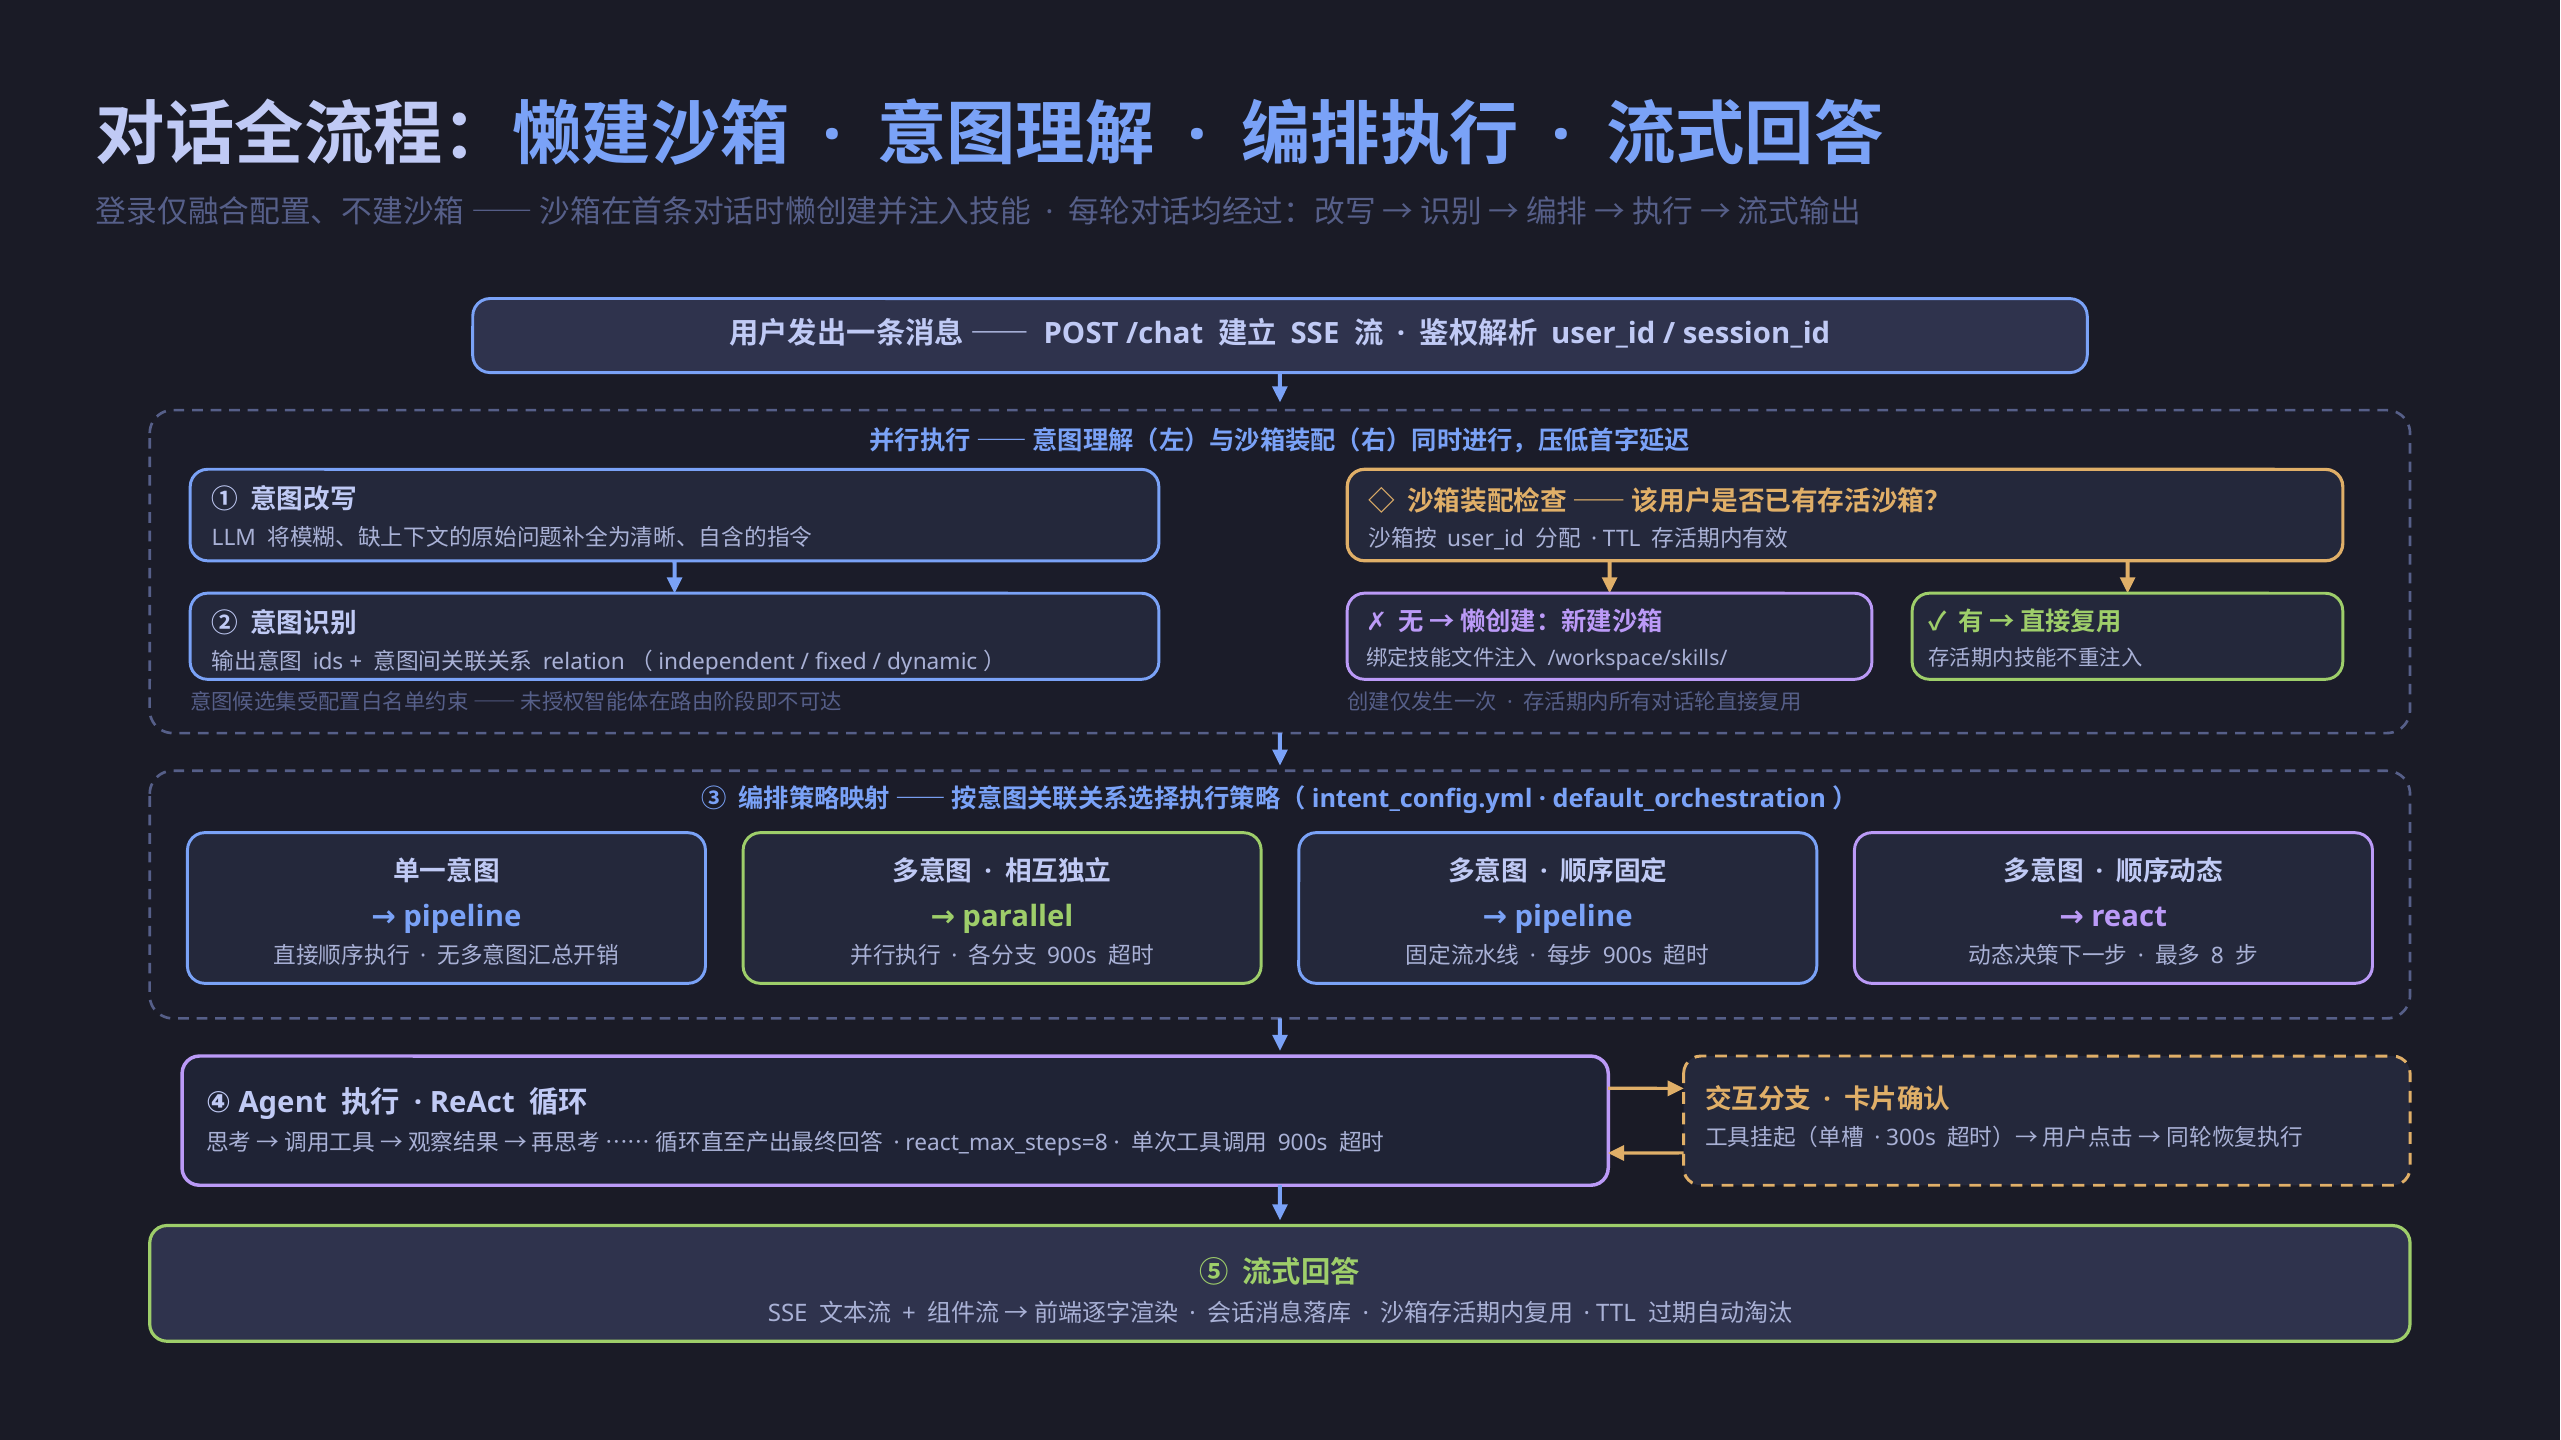
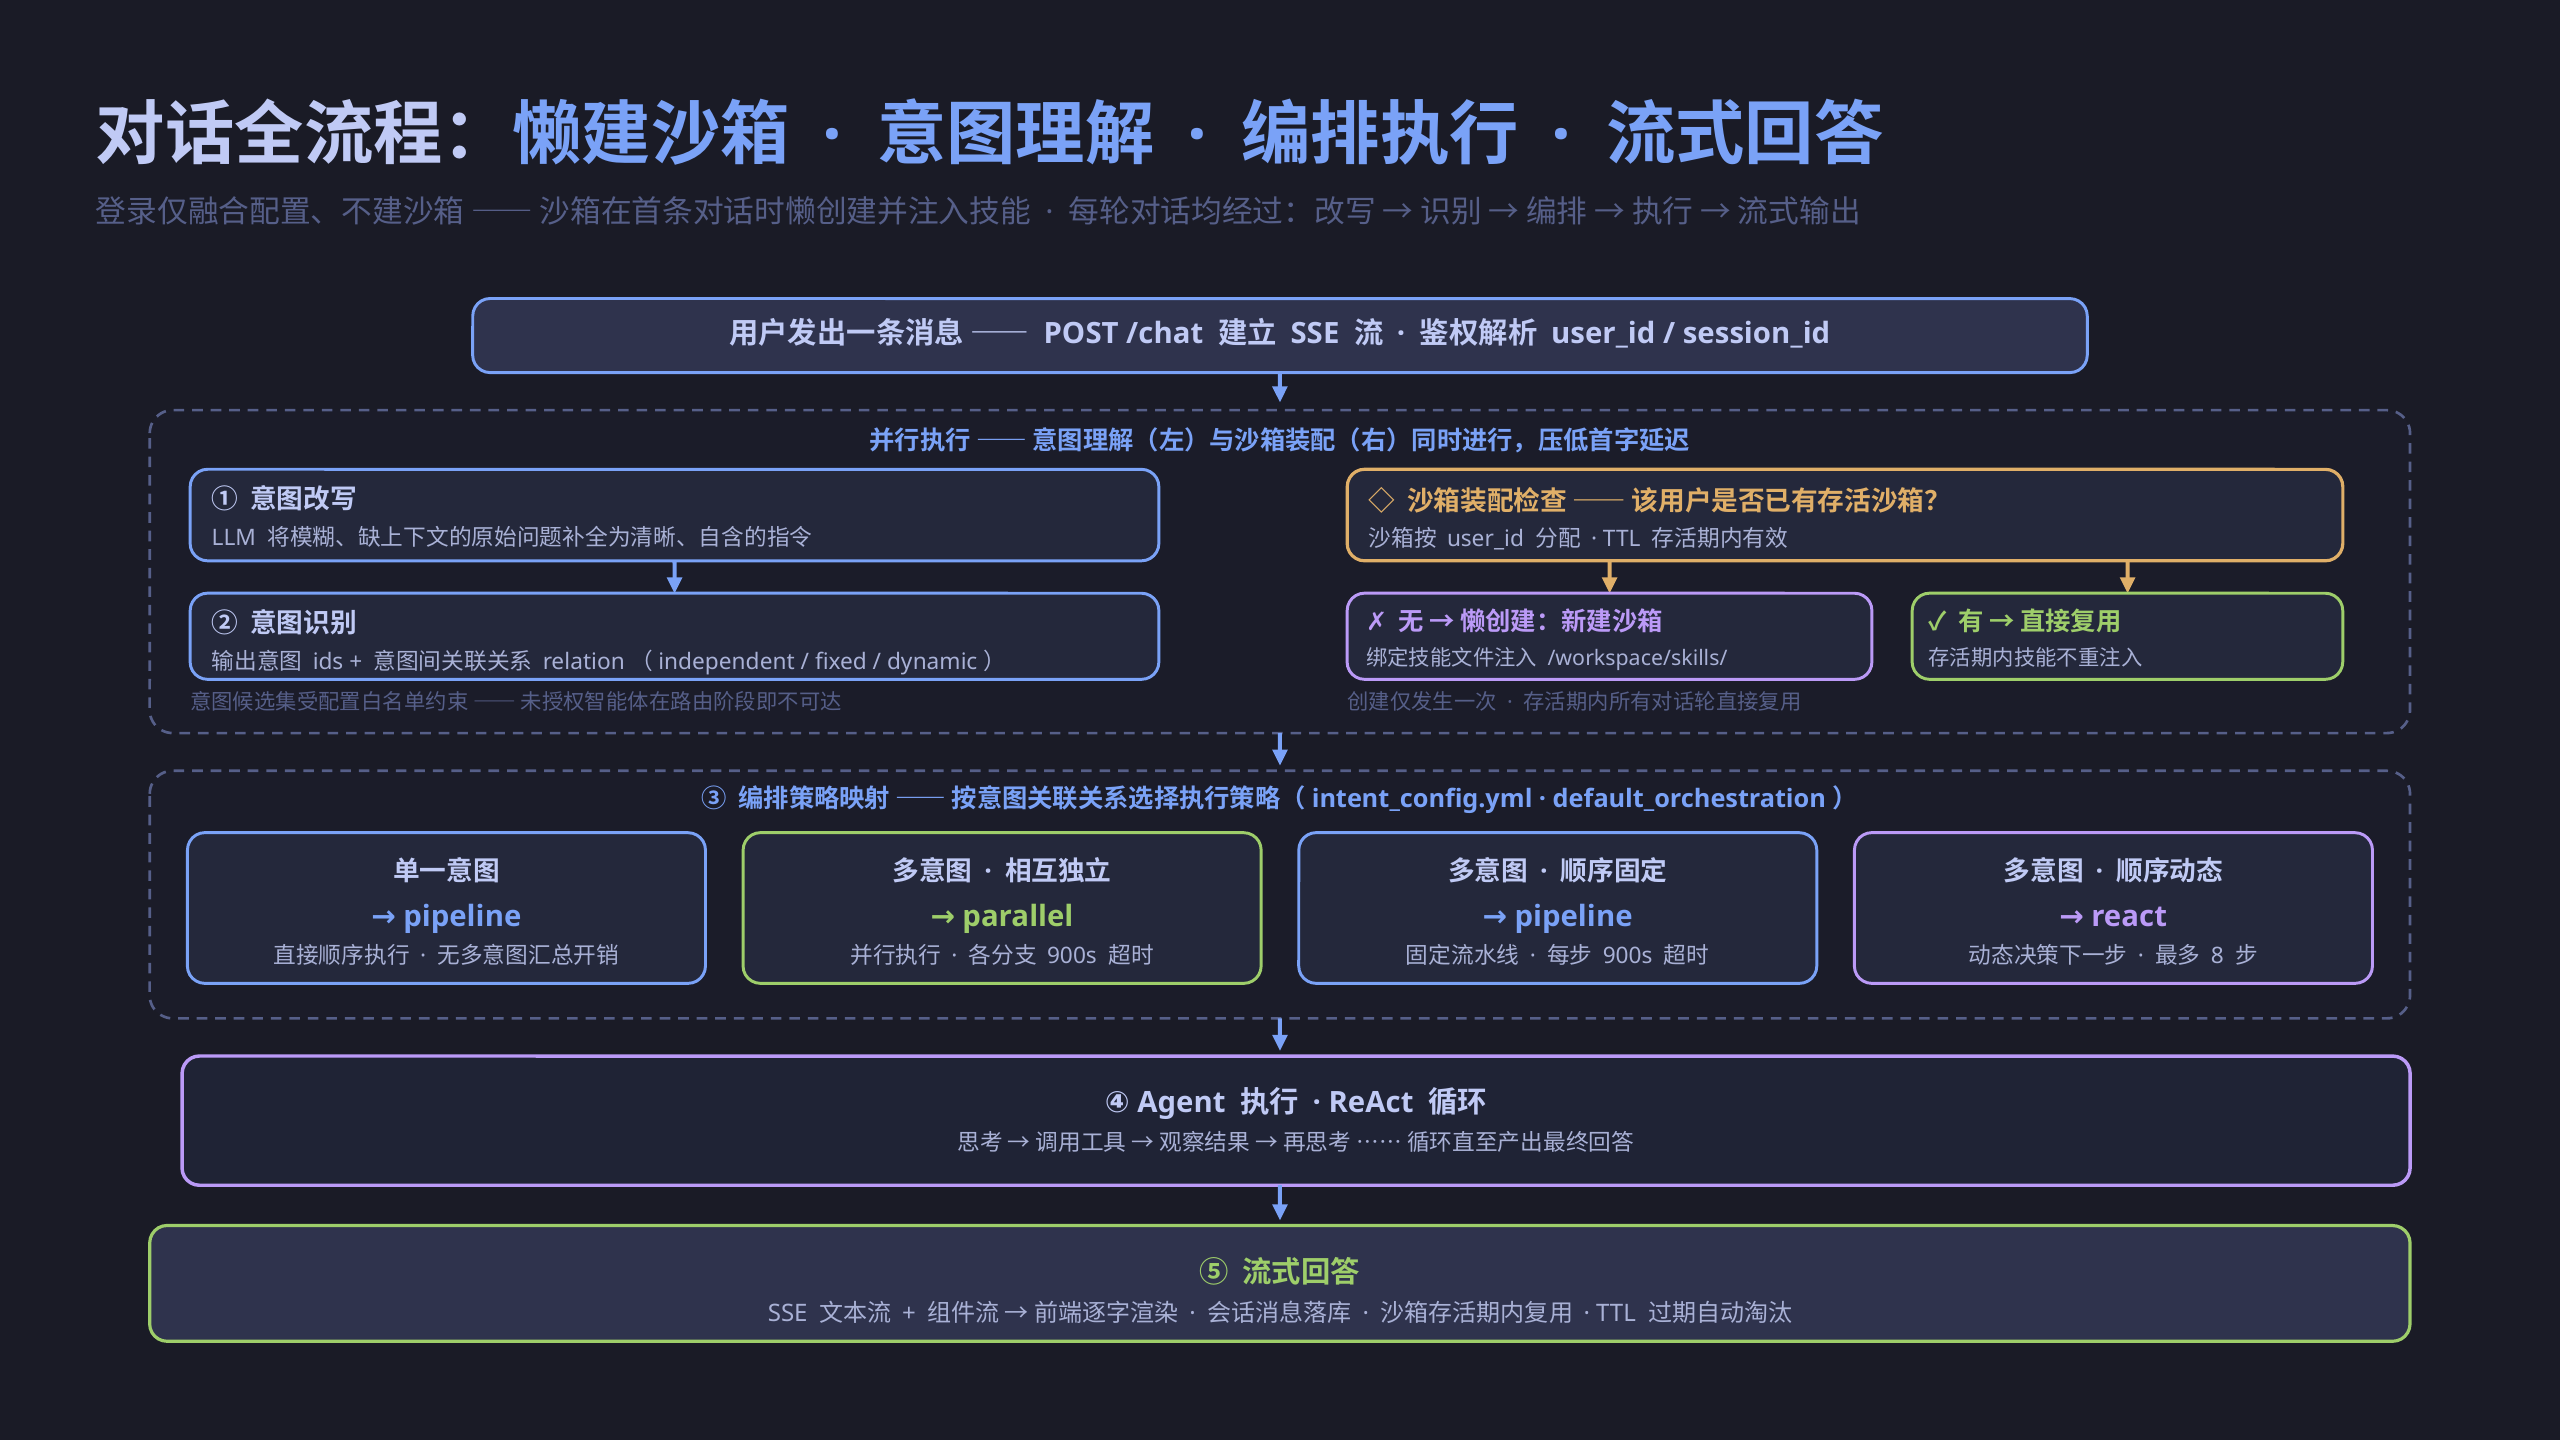
feat: update workspace

Changed region(s): [[0.0937, 0.7188, 0.9059, 0.8438]]

diff --git a/.pptx-build/build_dialogue_flow.js b/.pptx-build/build_dialogue_flow.js
@@ -121,19 +121,12 @@ function tblock(s,mx,x,y,w,rows,o={}){
   });
   arrow(s,mx,880,550,880,574);
 
-  /* ── ④ Agent 执行 + 交互分支 ── */
-  box(s,mx,64,578,1060,96,{fill:"1F2335",lineColor:ACCENT2,lw:1.3});
-  tblock(s,mx,82,590,1024,[
+  /* ── ④ Agent 执行 ── */
+  box(s,mx,64,578,1656,96,{fill:"1F2335",lineColor:ACCENT2,lw:1.3});
+  tblock(s,mx,82,590,1620,[
     [{text:"④ Agent 执行 · ReAct 循环",options:{fontSize:11,bold:true,color:T1,breakLine:true}}],
-    [{text:"思考 → 调用工具 → 观察结果 → 再思考 …… 循环直至产出最终回答 · react_max_steps=8 · 单次工具调用 900s 超时",options:{fontSize:8.5,color:T2}}]
-  ],{h:72});
-  box(s,mx,1180,578,540,96,{fill:SURFACE,lineColor:WARM,lw:1.1,dash:true});
-  tblock(s,mx,1196,590,508,[
-    [{text:"交互分支 · 卡片确认",options:{fontSize:10,bold:true,color:WARM,breakLine:true}}],
-    [{text:"工具挂起（单槽 · 300s 超时）→ 用户点击 → 同轮恢复执行",options:{fontSize:8.5,color:T2}}]
-  ],{h:68});
-  arrow(s,mx,1124,602,1180,602,{color:WARM,width:1.2});
-  arrow(s,mx,1180,650,1124,650,{color:WARM,width:1.2});
+    [{text:"思考 → 调用工具 → 观察结果 → 再思考 …… 循环直至产出最终回答",options:{fontSize:8.5,color:T2}}]
+  ],{h:72,align:"center"});
   arrow(s,mx,880,674,880,700);
 
   /* ── ⑤ 流式回答 ── */
